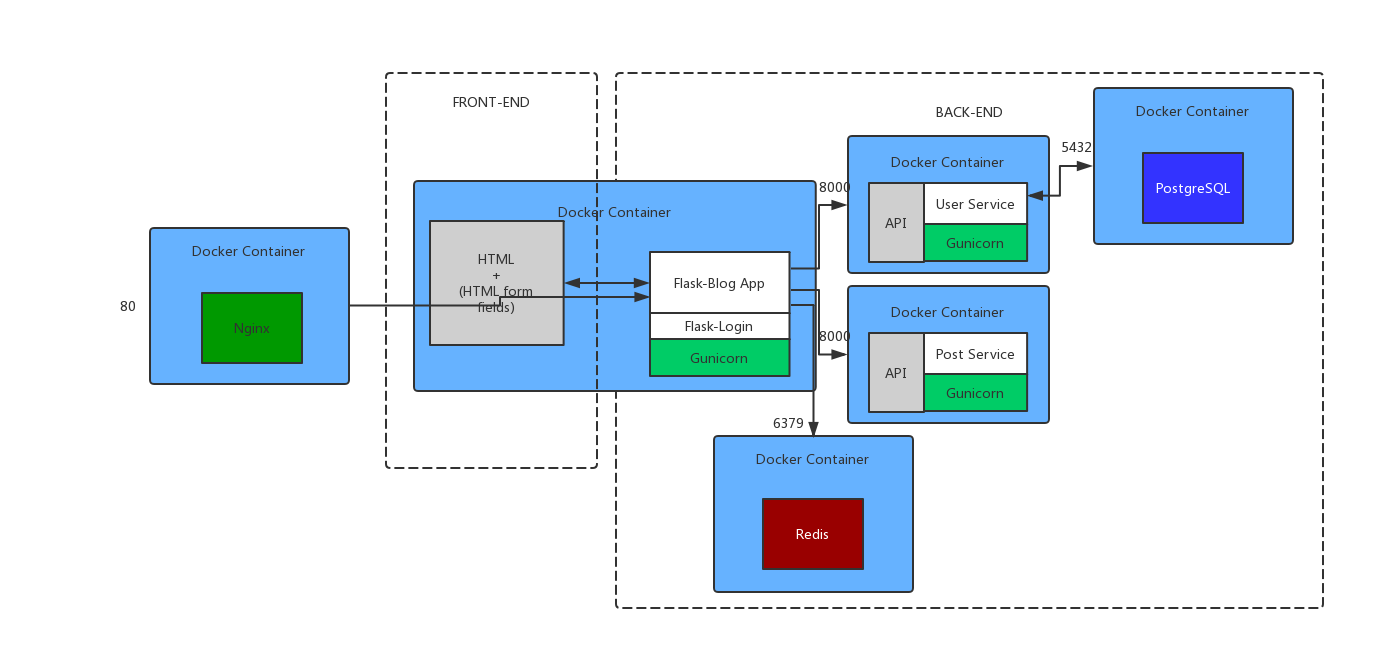
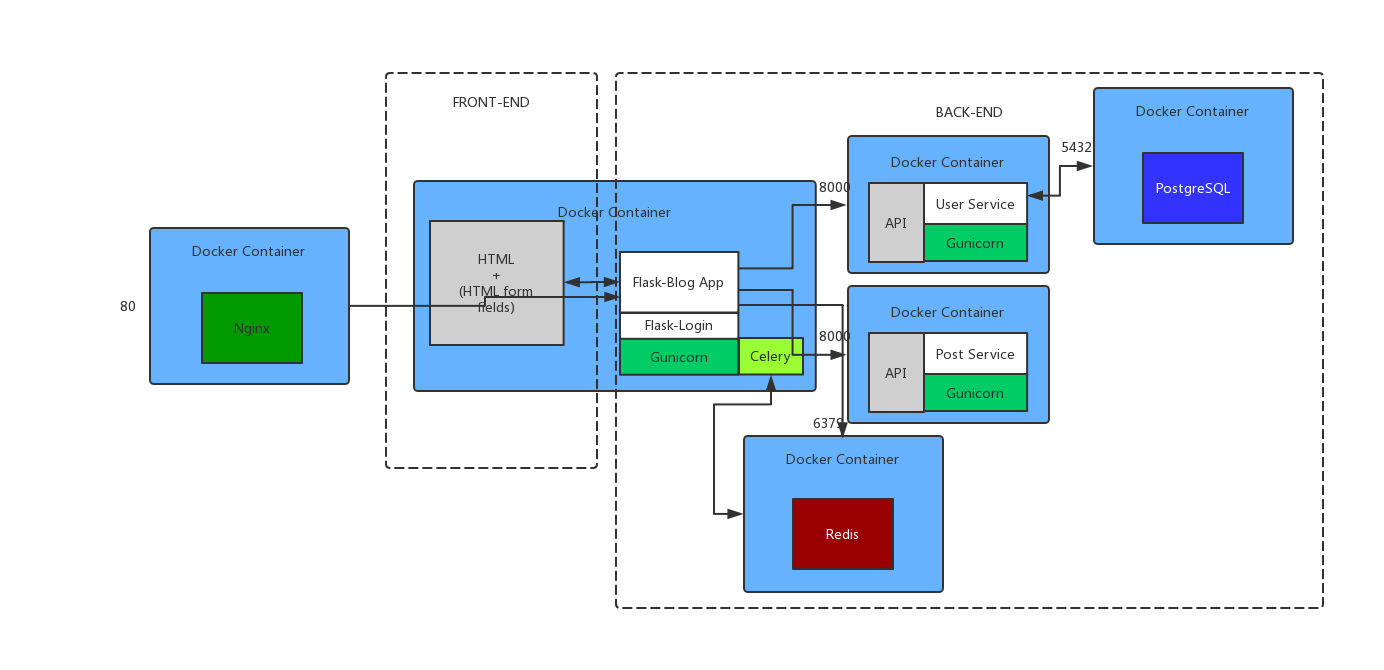
Update docs

Changed region(s): [[0.4971, 0.597, 0.6835, 0.8955], [0.435, 0.3582, 0.6214, 0.5672], [0.5592, 0.2985, 0.5903, 0.3284]]

diff --git a/flask_app/flask_blog/celerytasks.py b/flask_app/flask_blog/celerytasks.py
@@ -11,7 +11,7 @@ from flask_mail import Message
 from . import celery, mail
 
 
-@celery.task
+@celery.task(ignore_result=True)
 def send_email_async(recipients: List[str], subject: str, body: str) -> None:
     """
     Celery asynchronous task to send an email to the given recipient, with the

diff --git a/flask_app/flask_blog/utils.py b/flask_app/flask_blog/utils.py
@@ -4,7 +4,7 @@
 Utility functions.
 """
 
-from .celerytasks import *
+from .celerytasks import send_email_async
 
 
 def get_iter_pages(pages: int, page: int, edge: int=2, around: int=2) -> list:

diff --git a/README.md b/README.md
@@ -46,6 +46,7 @@ We separate `user_service` and `post_service` out as a Flask-based web services:
 
 * `user_service` is responsible for all the logics and information related to users, and talks to `PostgreSQL` directly.
   * This web service can be implemented in two ways: check out https://github.com/Ziang-Lu/RESTful-with-Flask/blob/master/Bookstore%20Web%20Service%20Documentation.md. Here we simply use `Flask-RESTful` framework to implement this web service.
+  * The user following system is also implemented in `user_service`, and presented in the main Flask-Blog app.
 * `post_service` is responsible for all the logics and information related to user posts, and talks to `PostgreSQL` directly.
 * `Marshmallow/Flask-Marshmallow` is used for schema definition & deserialization (including validation) / serialization.
 * Since these web services are backed by `PostgreSQL` database. And thus `Flask-SQLAlchemy` module is used for ORM-related tasks.
@@ -64,13 +65,20 @@ In this way, the original Flask-Blog app now becomes a "skeleton" or a "gateway"
 
   Thus, in the original Flask-Blog app, we still use `Flask-Login` to handle user log-in/log-out and authentication issues, as well as session management.
 
+* As a presentation of the user following system, a logged-in user is able to choose to show only the posts authored by the followed users.
+
 * Rate limiting:
 
   All routes are protected by rate limiting, implemented with `Flask-Limiter` and `Redis`.
+  
+* Asynchronous tasks:
+
+  *Some actions in the app takes long time to run, which blocks the server to handle the request.*
+
+  Thus, `Celery` is used as an asynchronous task queue (with our existing `Redis` as the broker (message queue)) to handle those long-running tasks, like sending email to users.
 
 <br>
 
 ## License
 
 This repo is distributed under the <a href="https://github.com/Ziang-Lu/Flask-Blog/blob/master/LICENSE">MIT license</a>.
-

diff --git a/Deployment Options.md b/Deployment Options.md
@@ -289,7 +289,7 @@ On the server
 
      Check out the corresponding official documentation, e.g., For Ubuntu, https://docs.docker.com/install/linux/docker-ce/ubuntu/
 
-   * We already set up the project so that Nginx runs in its own container, and the Flask application and Gunicorn run in another container.
+   * We already set up the project so that Nginx runs in its own container, and the Flask application, Gunicorn and Celery run in another container.
 
      ```bash
      # Build the images
@@ -302,9 +302,12 @@ On the server
 2. Quicker way: `docker-machine`
 
    * Manage "Dockerized hosts" ("machines"), which are virtual hosts installed with Docker Engine, that run in a cloud
+   
+  *(Essentially, this combines the first two steps in the above approach.)*
+   
    * Simply run Docker containers on a "machine"
-
-   See the section below
+   
+   -> See the section below
 
 ***
 
@@ -365,7 +368,7 @@ Follow the instructions on https://docs.docker.com/machine/drivers/aws/ and http
 
 <br>
 
-## 3. Same Setup as 2, but Deployed to Cluster in Cloud
+## 3. Same Setup as 2, but Deployed to Cluster in Cloud (Deploye到集群)
 
 So far, we've been deploying to a single machine in a cloud. But what if we want to **deploy to a cluster in a cloud**?
 
